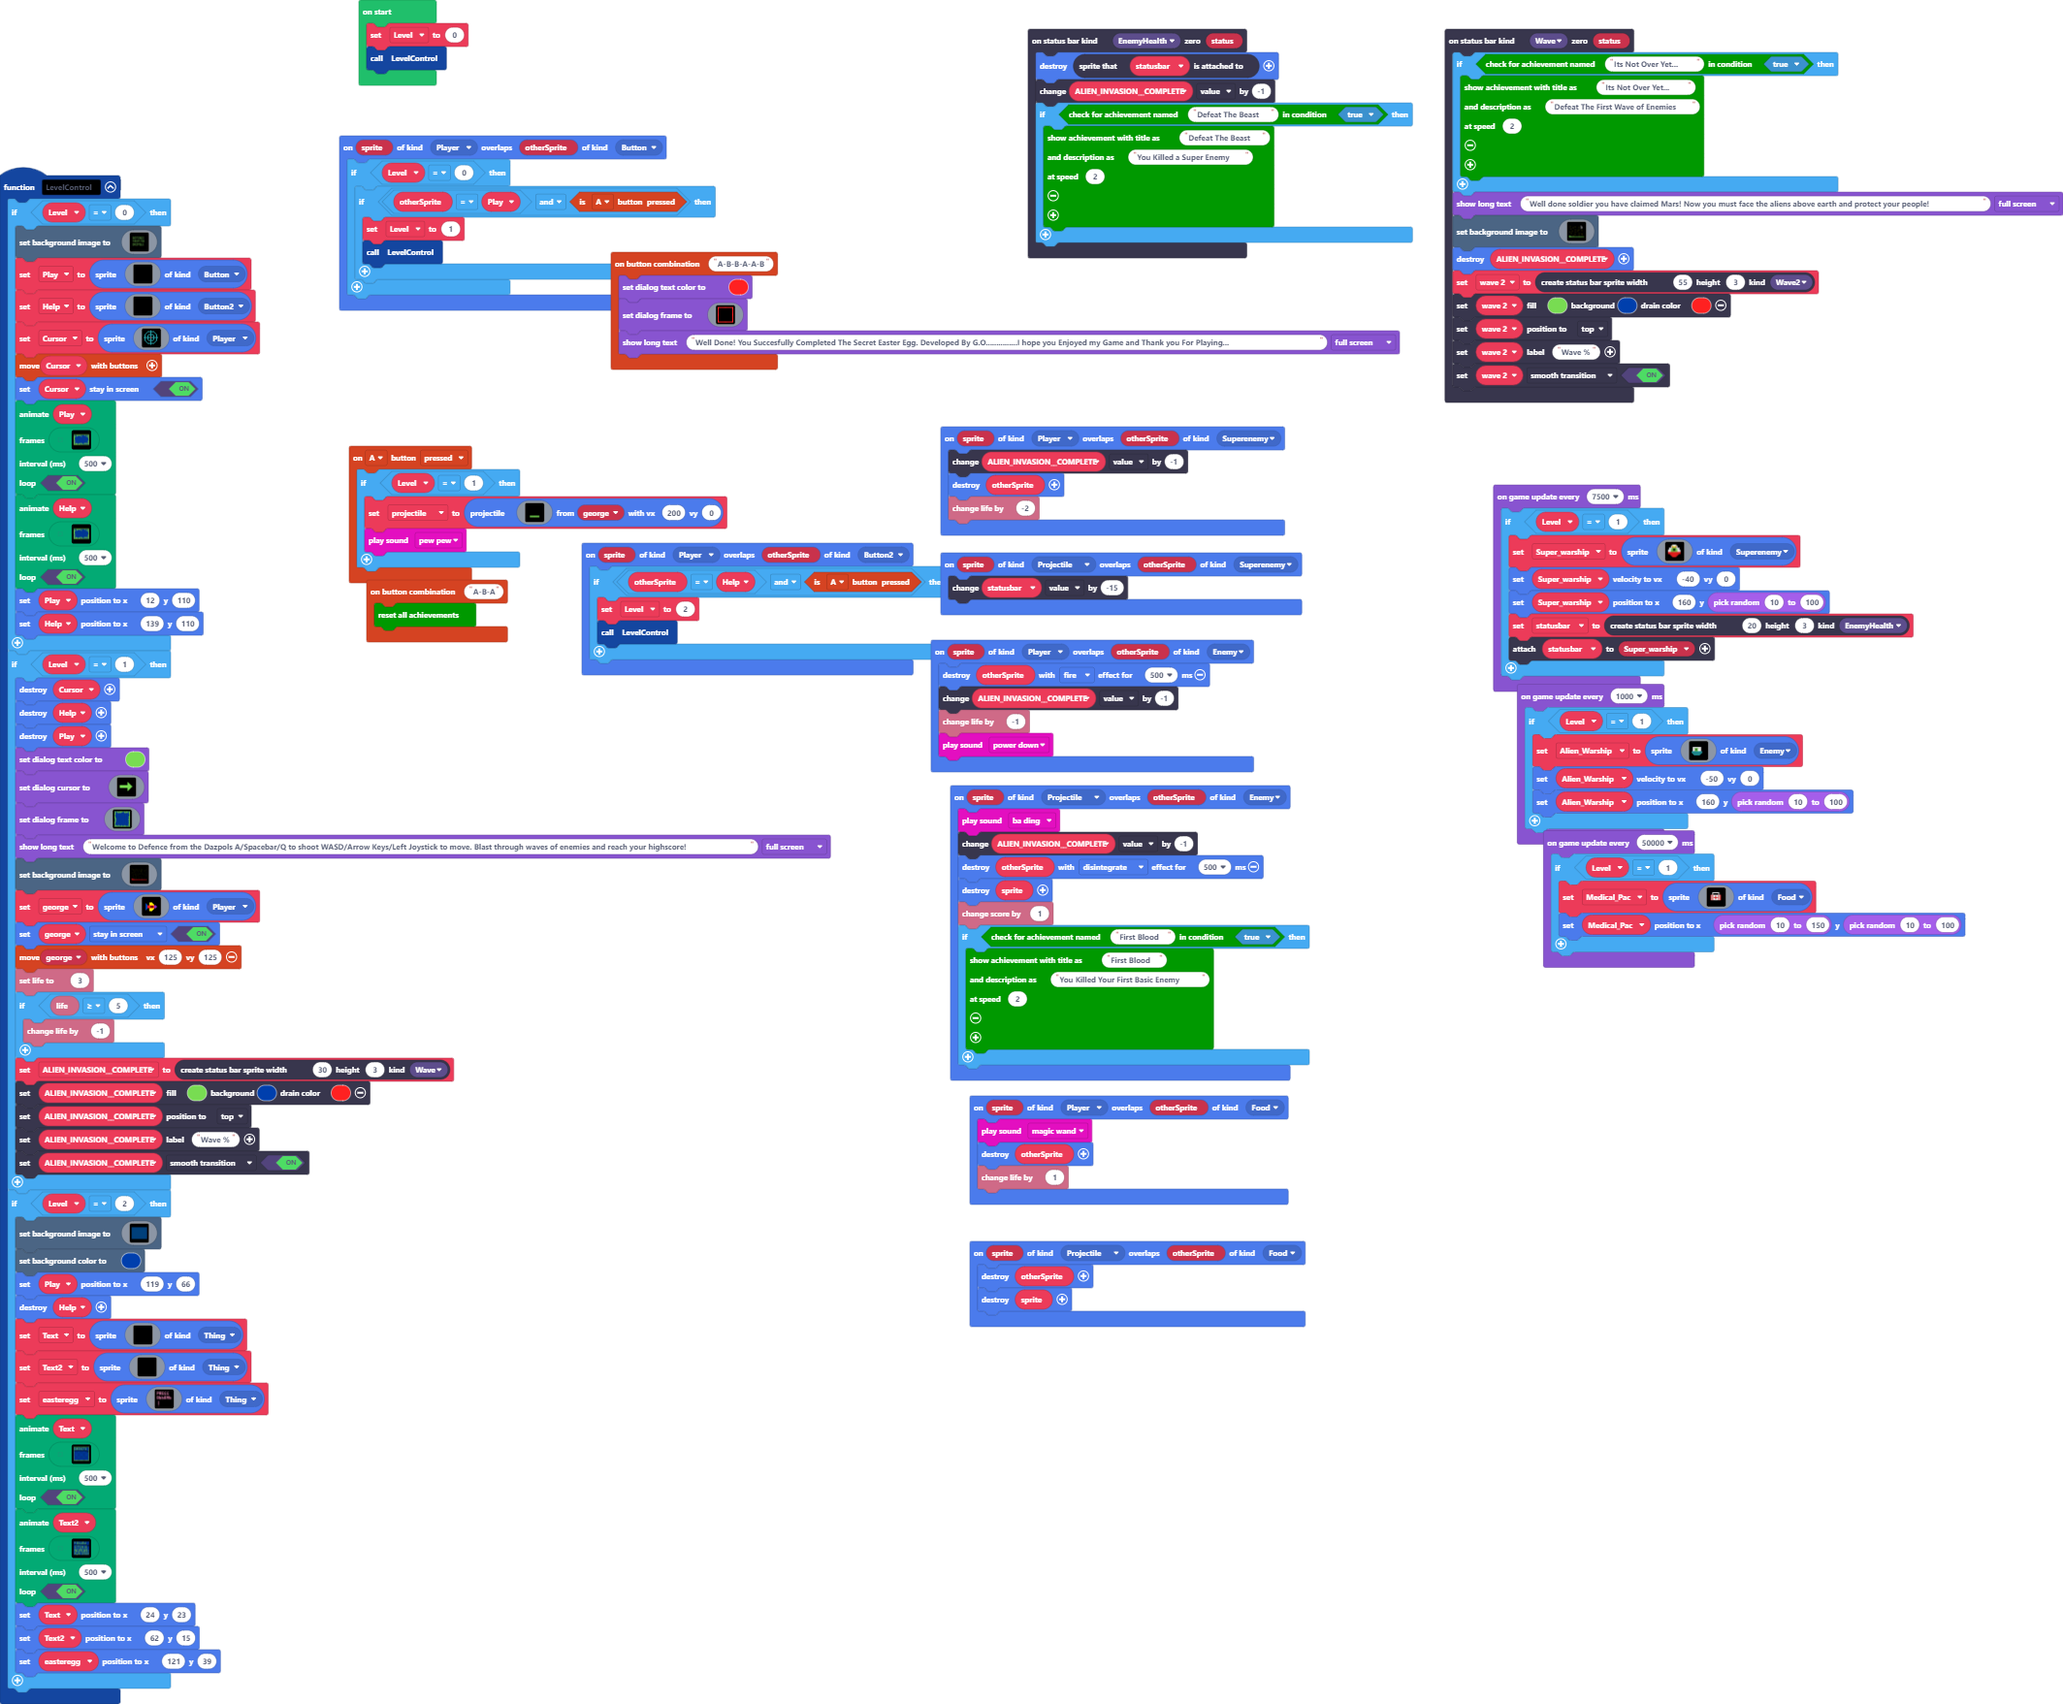
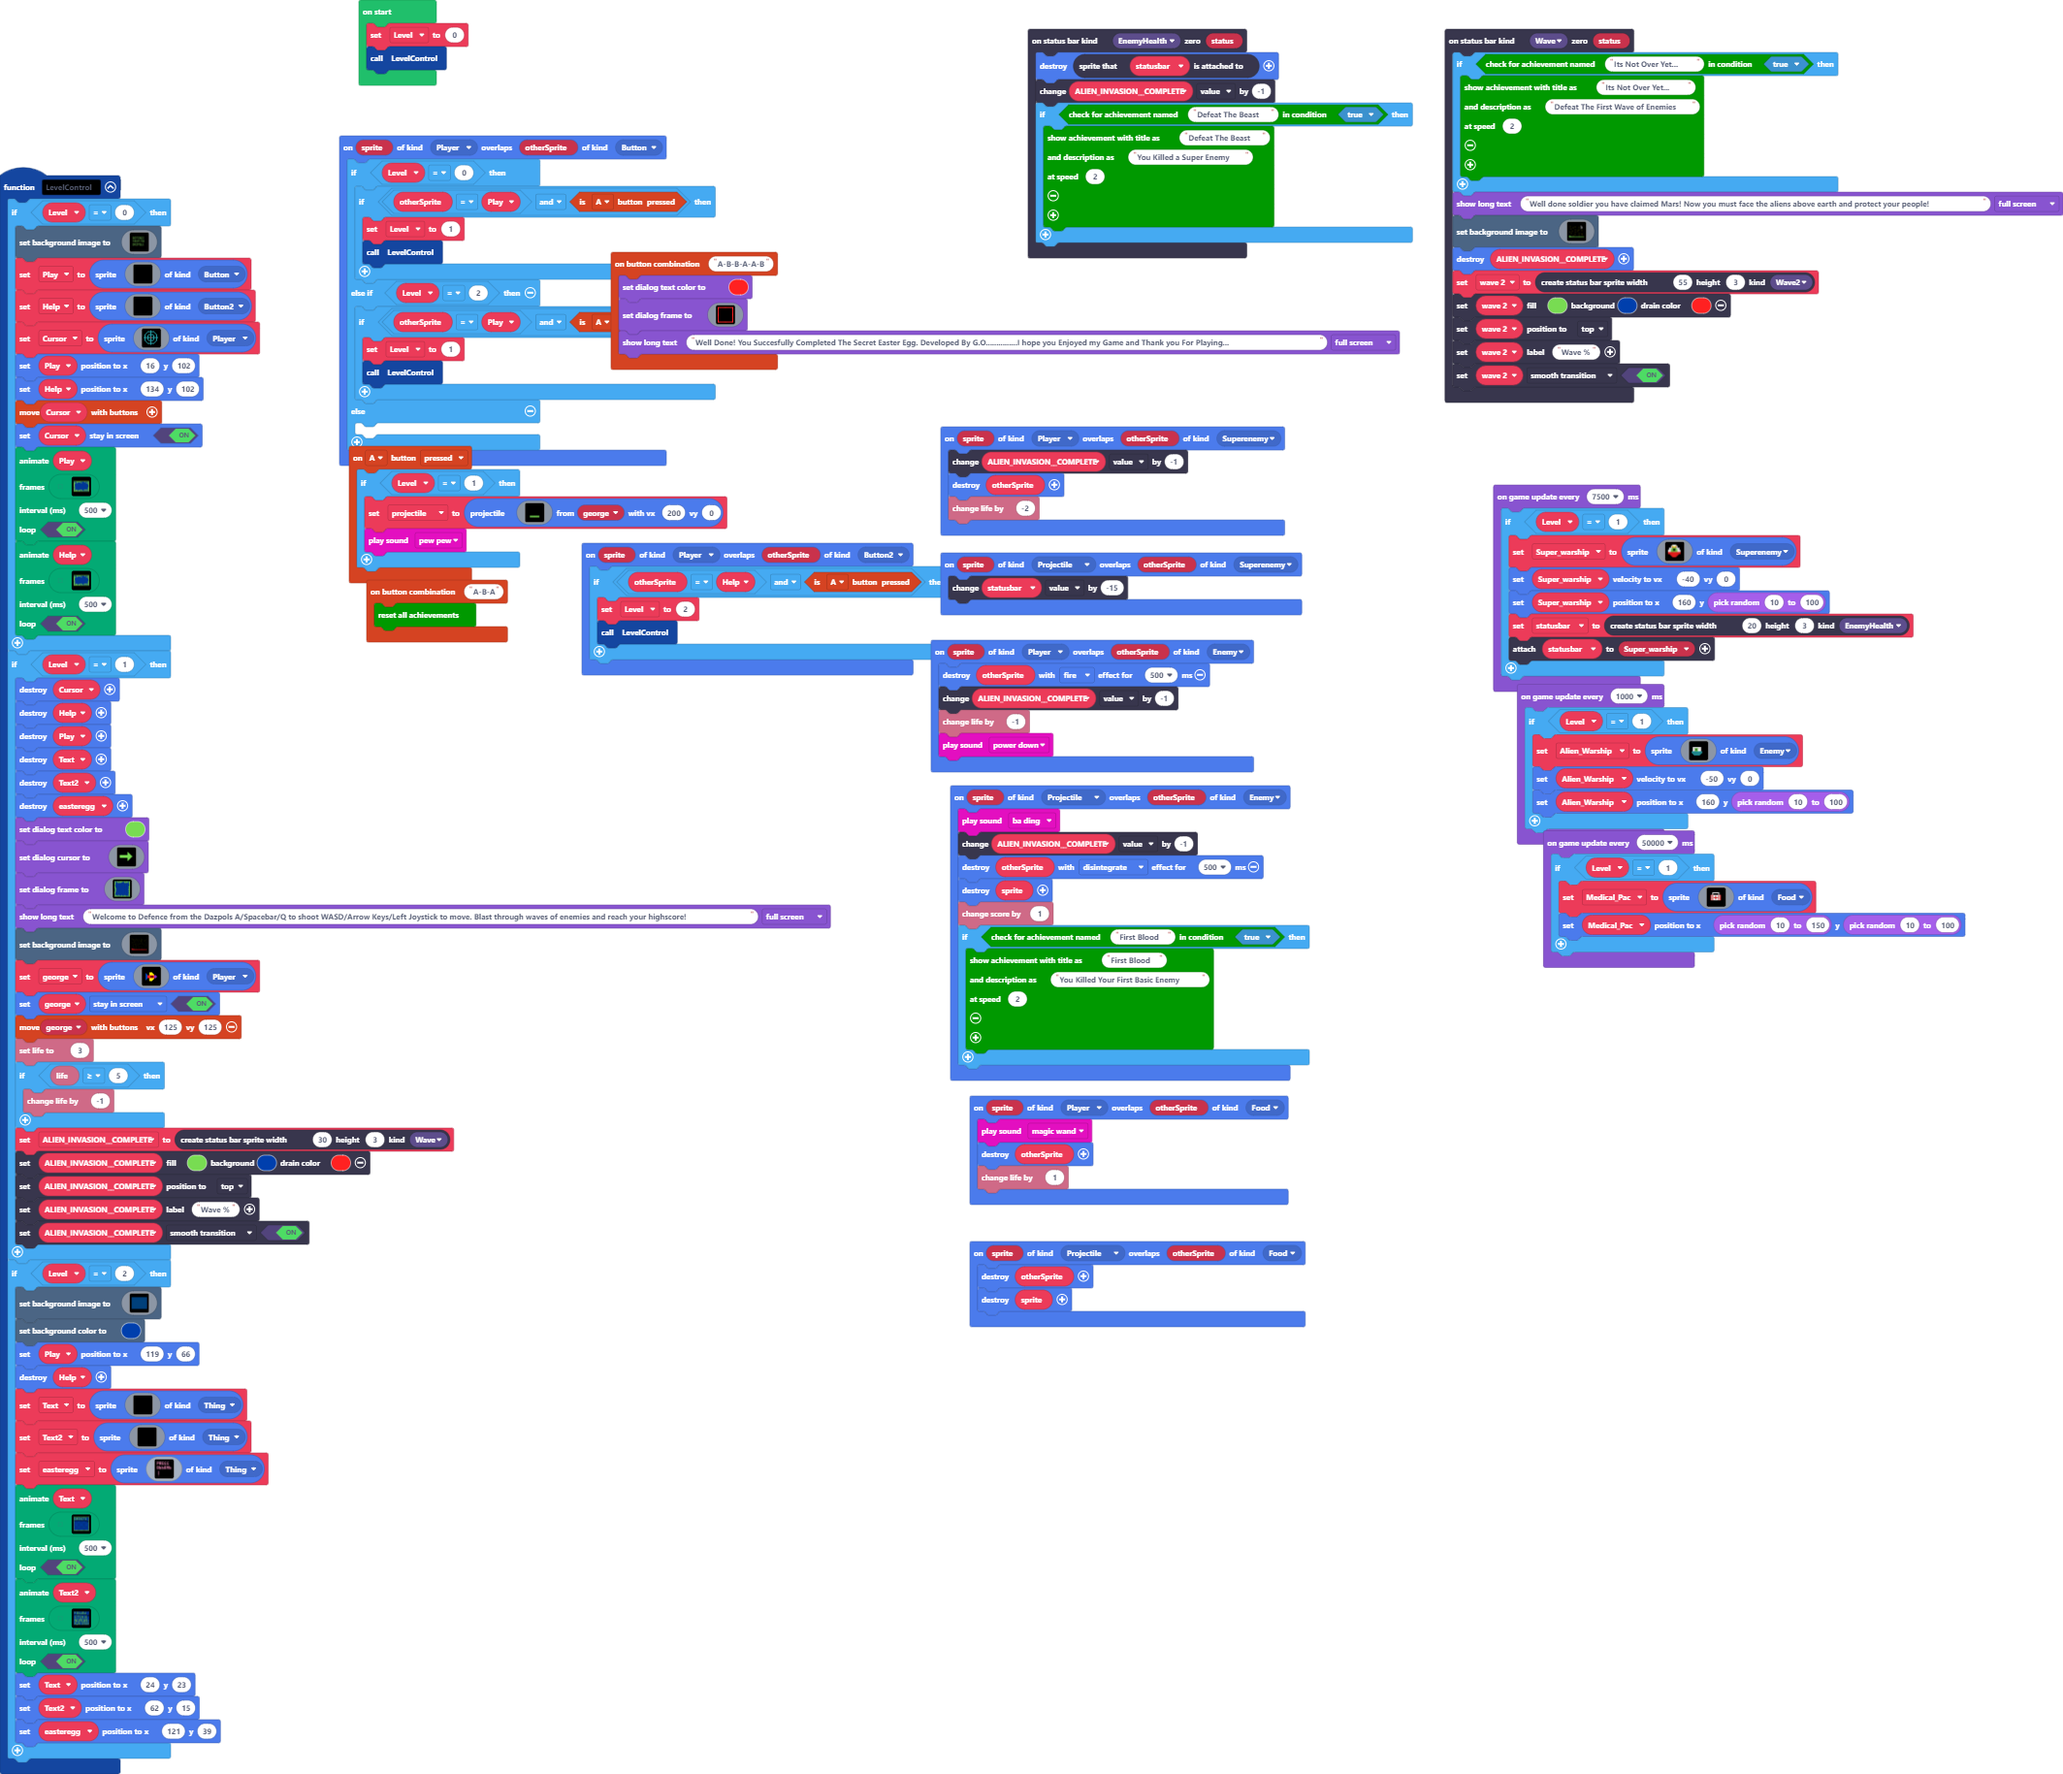
Update pxt.json, main.blocks, main.ts

Changed region(s): [[0.1551, 0.0, 0.6827, 0.7991], [0.4965, 0.0, 1.0, 0.5839], [0.0, 0.0922, 0.4034, 0.9835]]

diff --git a/main.ts b/main.ts
@@ -188,6 +188,8 @@ function LevelControl () {
             . . . . . . . 6 . . . . . . . . 
             . . . . . . . . . . . . . . . . 
             `, SpriteKind.Player)
+        Play.setPosition(16, 102)
+        Help.setPosition(134, 102)
         controller.moveSprite(Cursor)
         Cursor.setStayInScreen(true)
         animation.runImageAnimation(
@@ -270,13 +272,14 @@ function LevelControl () {
         500,
         true
         )
-        Play.setPosition(12, 110)
-        Help.setPosition(139, 110)
     }
     if (Level == 1) {
         Cursor.destroy()
         Help.destroy()
         Play.destroy()
+        Text.destroy()
+        Text2.destroy()
+        easteregg.destroy()
         game.setDialogTextColor(7)
         game.setDialogCursor(img`
             . . . . . . . . . . . . . . . . 
@@ -1045,6 +1048,13 @@ sprites.onOverlap(SpriteKind.Player, SpriteKind.Button, function (sprite, otherS
             Level = 1
             LevelControl()
         }
+    } else if (Level == 2) {
+        if (otherSprite == Play && controller.A.isPressed()) {
+            Level = 1
+            LevelControl()
+        }
+    } else {
+    	
     }
 })
 sprites.onOverlap(SpriteKind.Projectile, SpriteKind.Enemy, function (sprite, otherSprite) {
@@ -1073,11 +1083,11 @@ let Medical_Pac: Sprite = null
 let projectile: Sprite = null
 let statusbar: StatusBarSprite = null
 let wave_2: StatusBarSprite = null
+let ALIEN_INVASION__COMPLETE: StatusBarSprite = null
+let george: Sprite = null
 let easteregg: Sprite = null
 let Text2: Sprite = null
 let Text: Sprite = null
-let ALIEN_INVASION__COMPLETE: StatusBarSprite = null
-let george: Sprite = null
 let Cursor: Sprite = null
 let Help: Sprite = null
 let Play: Sprite = null
